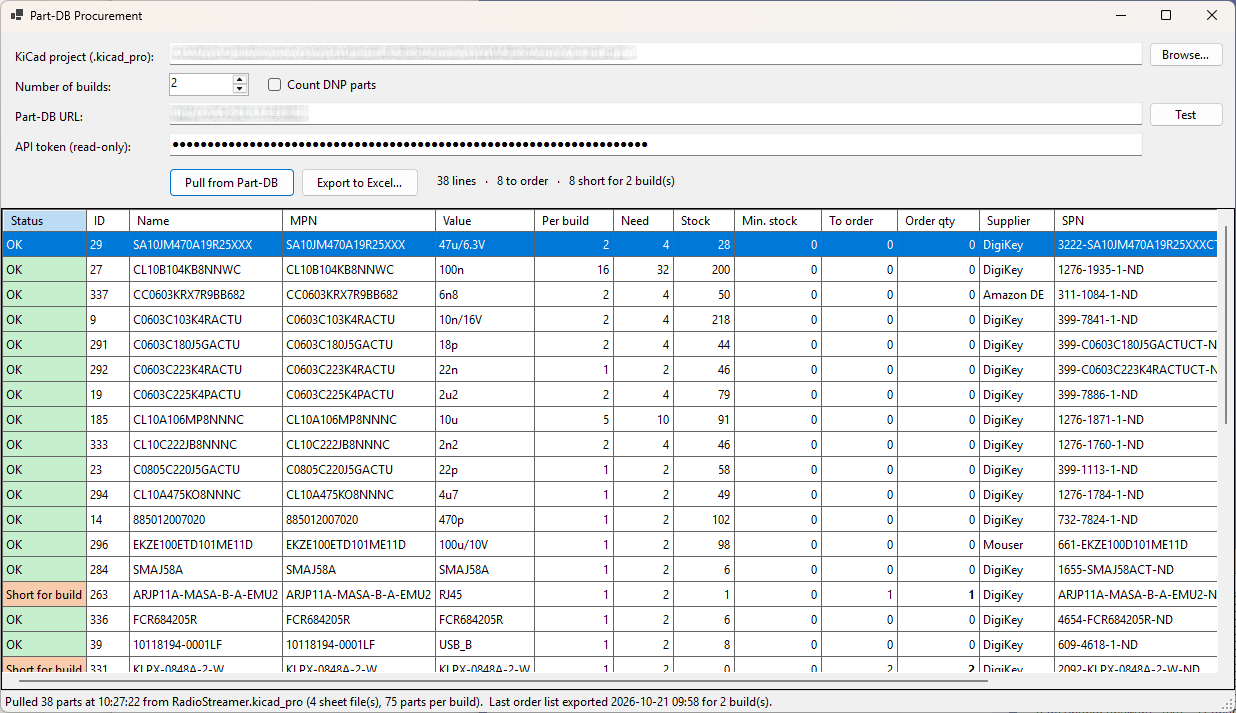
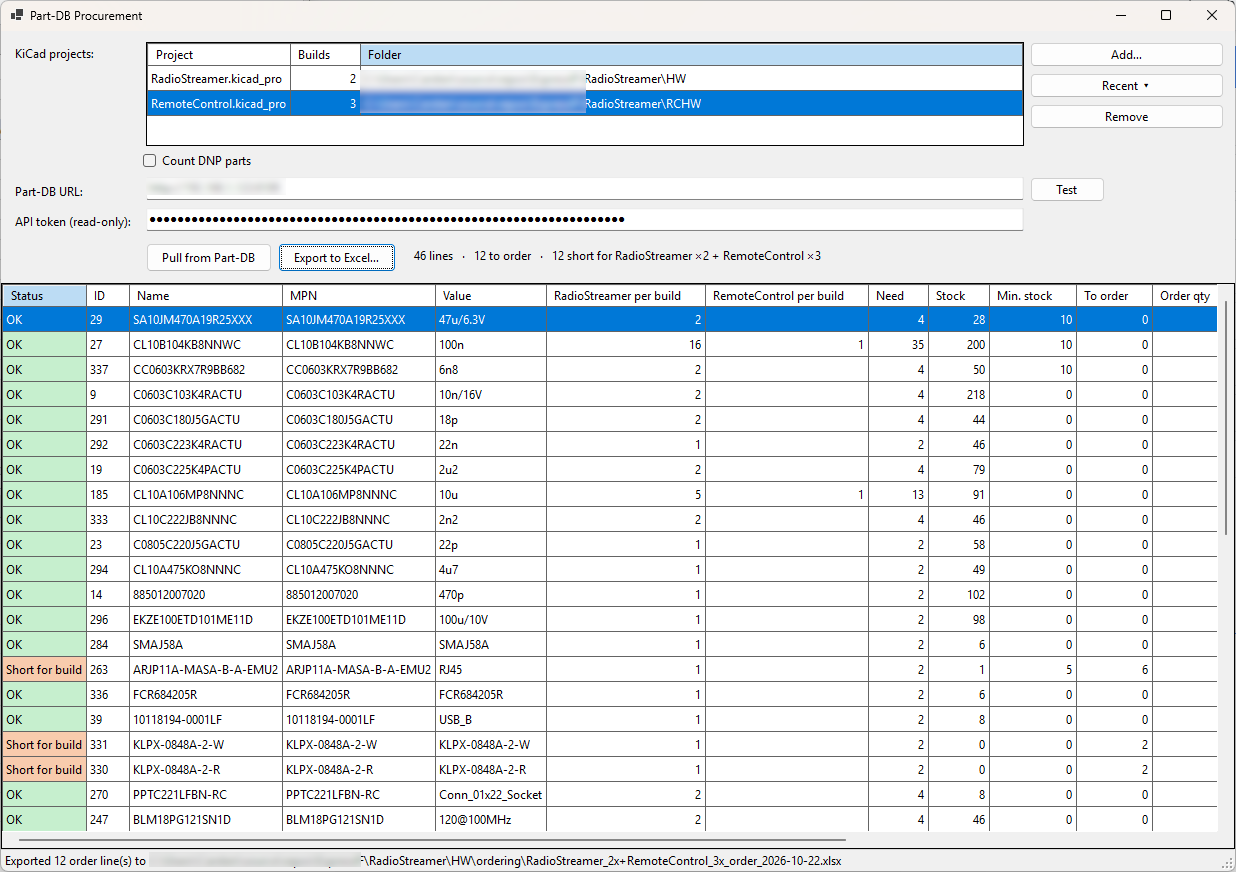
Release 1.1.0: changelog, version, spec and screenshots
Claude-Session: https://claude.ai/code/session_01YYGU95BEiWPeToMNzmMkvU

diff --git a/docs/REQUIREMENTS.md b/docs/REQUIREMENTS.md
@@ -1,0 +1,114 @@
+# Requirements: Part-DB Procurement v1.2 (booking)
+
+Status: **DRAFT, for approval**. Date: 2026-10-21. Section 6 was released in **v1.1.0** (2026-10-22); the booking functions are planned for v1.2.
+
+Origin: **S** = stated by the owner · **A** = proposed by the developer and approved by the owner · **A?** = proposed, not yet approved
+
+Verification (planned): **T** = automated test · **M** = manual test on Windows · **I** = inspection of code or output
+
+---
+
+## 1. Scope
+
+v1.2 adds two booking functions to the existing, read-only order-list tool:
+
+1. **Goods receipt:** book a DigiKey packing list into Part-DB stock.
+2. **Build:** withdraw the parts used by *N* builds of a KiCad project from Part-DB stock.
+
+Both functions change data in Part-DB. Everything else stays read-only.
+
+**Multi-project purchases and a recent-projects list** (section 6, read-only) were released in v1.1.0.
+
+## 2. Common requirements
+
+| ID | Requirement | Origin | Verif. |
+|---|---|---|---|
+| R1 | Whether something has already been booked is decided **only** from the app's own booking log, never from Part-DB data or history. Changes made outside the app are not detected; that is the user's responsibility. | S | I |
+| R2 | The booking log is append-only: entries are never changed or deleted by the app. It is one CSV file (UTF-8, readable in Excel). | A | T |
+| R3 | The location of the booking log can be set in the app. Default: `%AppData%\PartDbProcurement\bookings.csv`. A shared folder may be chosen when several PCs are used. | A | M |
+| R4 | Each line is written to the log **immediately after** it has been booked in Part-DB, so an interrupted run can be resumed without booking a line twice. When a key (R12, R21) has lines that are already booked, the app offers to book **only the remaining lines**. | A | T |
+| R5 | Before any change is made in Part-DB, a preview lists every change (part, lot, quantity before → after, new parts and purchase information to be created). Nothing is changed until the user confirms. | A | M |
+| R6 | Booking requires a Part-DB API token with **write** access. It is stored separately from the read-only token used for pulls, and encrypted in the same way (DPAPI, current Windows user). | A | I |
+| R7 | **Lot rule:** if the part has exactly one lot, that lot is used, whether or not it has a named storage location. If the part has no lot, one is created without a storage location (goods receipt only). If the part has several lots, the line is shown as "choose lot" in the preview and is not booked until the user chooses one. | S | T |
+| R8 | Every booking in Part-DB carries a change comment that identifies it: `Goods receipt DigiKey invoice <no>` or `Build <project> ×<n>`. | A | M |
+| R9 | Log columns: timestamp, type (Receipt/Build), key, reference, line no., Part-DB ID, MPN, SPN, quantity, stock before, stock after, lot code, date code, result (Booked / Created / Skipped / Failed), Windows user, PC name. | A | I |
+
+## 3. Goods receipt from a DigiKey packing list
+
+| ID | Requirement | Origin | Verif. |
+|---|---|---|---|
+| R10 | The app reads a DigiKey packing list PDF (as `DK_PACKLIST_<invoice>.pdf`, Danish/English layout). | S | T |
+| R11 | Per shipment the log records the date, invoice number, sales order number and, per line: DigiKey part number (PART), MPN (MFG#), manufacturer, quantity. | S | T |
+| R12 | The key of a shipment is the **invoice number**. If the invoice is already in the log, the app **warns** with the date of the earlier booking. The user may continue; the default answer is **No**. | S | M |
+| R12a | The packing list number (e.g. `1`) is recorded in the log together with the invoice number. | A | T |
+| R13 | The quantity booked is the **Shipped** quantity. A line delivered as several lots is booked as the sum of the lots. | A | T |
+| R14 | A line is matched to a Part-DB part by **MPN** (exact, ignoring case and leading/trailing spaces). | S | T |
+| R14a | If the matched part has no DigiKey purchase information with this DigiKey part number, a new purchase information entry (supplier DigiKey, supplier part number = PART) is **added**. Existing purchase information is not changed. | S | T |
+| R14b | If more than one Part-DB part has the same MPN, the line is shown as "choose part" in the preview and is not booked until the user chooses one. | A | T |
+| R15 | If no part matches, a new part is created: name = MFG#, MPN = MFG#, description = DESC, manufacturer per R15c, purchase information: supplier DigiKey, supplier part number = PART, and one lot without a storage location holding the shipped quantity. | S | T |
+| R15a | New parts are marked **Needs review** in Part-DB. | A | M |
+| R15b | New parts are placed in the category **"New from DigiKey"**, which the app creates if it does not exist. | A | M |
+| R15c | The manufacturer is looked up by name, ignoring a trailing DigiKey suffix in parentheses (`YAGEO (VA)` → `YAGEO`). A manufacturer that does not exist is created. | S | T |
+| R16 | Lot code and date code from the packing list are recorded in the log. | A | T |
+| R17 | Lines that cannot be read with certainty (missing PART, MFG# or Shipped quantity) are shown in the preview as errors and are not booked. | A? | T |
+
+## 4. Build: withdrawing usage from stock
+
+| ID | Requirement | Origin | Verif. |
+|---|---|---|---|
+| R20 | The app withdraws the usage of a build from Part-DB: quantity per build (as counted for the order list) × number of builds, per Part-DB ID. | S | T |
+| R21 | The log records the project, date, number of builds and the quantity withdrawn per part. The key is the project file plus the time of booking. | S | T |
+| R22 | If the project has been booked before, the app **warns** with the date(s) and number of builds, and lets the user continue, because building another batch is legitimate. | A | M |
+| R23 | If the stock of a part is lower than its usage, that part is not withdrawn (stock never goes negative). It is listed, and the user decides whether to continue without it. Skipped parts are logged as Skipped. | A | T |
+| R24 | Symbols without a Part-DB ID cannot be withdrawn; they are listed in the preview and logged as Skipped. | A? | T |
+
+## 5. User interface and documentation
+
+| ID | Requirement | Origin | Verif. |
+|---|---|---|---|
+| R30 | The main dialog gets two buttons: **Book delivery…** (choose PDF) and **Book build…** (uses the current project and number of builds). | A? | M |
+| R31 | The booking log can be opened from the app (it opens in Excel). | A? | M |
+| R32 | The README is updated: the tool is read-only **unless** the booking functions are used, which need a separate write token. | A | I |
+| R33 | PDF text is extracted with the NuGet package **PdfPig** (Apache 2.0). This is the only external dependency. | A | I |
+
+## 6. Multi-project purchase and recent projects (released in v1.1.0)
+
+| ID | Requirement | Origin | Verif. |
+|---|---|---|---|
+| R40 | The dialog holds a **list of projects** (one or more `.kicad_pro`), each with its own number of builds. Projects are added with **Add…** (multi-select), from the recent list, by drag and drop, or on the command line, and removed with **Remove** / Del. A project cannot be in the list twice. | S | M |
+| R41 | One pull reads all projects and fetches each Part-DB ID once. A Part-DB ID used by several projects is **one line**; its need is the sum of per build × builds over the projects. | S | T |
+| R42 | Parts without a Part-DB ID, excluded parts and warnings are listed **per project**, since lines without an ID cannot be matched across projects. | A? | T |
+| R43 | The Excel output and the grid show one *per build* column per project, references prefixed with the project name, and per-project details on the Info sheet. A single project gives the same output as v1.0. | A? | T |
+| R44 | A **recent list** keeps the last **5** projects, newest first, each with its **number of builds**. A project moves to the top when it is added, pulled or exported; changing its builds updates the remembered number. Missing files are shown as *not found* and cannot be added. | S | T |
+| R45 | The project list is restored at start-up. v1.0 settings (one project, one number of builds) are migrated to it. | A? | T |
+| R46 | The "already exported" warning (B11) is checked for **each** project; an export of a combined list is recorded for every project in it, together with the projects it was combined with. | A? | M |
+| R47 | Changing builds recalculates without a new pull. Adding or removing a project disables export until the next pull. | A? | M |
+| R48 | **Book build…** (R30) with several projects in the list withdraws the usage of all of them, as one booking per project (key per R21). | A? | M |
+
+## 7. Out of scope (v1.2)
+
+- Updating prices from the invoice (possible later; the invoice number is already the key, so it cannot double-book a shipment).
+- Suppliers other than DigiKey.
+- Choosing a lot by rule (FIFO etc.) instead of R7.
+- KiCad 10 design variants (known limitation from v1.0).
+
+## 8. Baseline: v1.0 as built
+
+For traceability, the behaviour of v1.0 that was not specified up front:
+
+| ID | Behaviour |
+|---|---|
+| B1 | API token stored DPAPI-encrypted in `%AppData%\PartDbProcurement\settings.json`. |
+| B2 | Read-only access to Part-DB. |
+| B3 | Supplier on the order list = first non-obsolete supplier on the part. |
+| B4 | Order quantity rounded up to the smallest price break. |
+| B5 | DNP excluded by default; *Exclude from BOM* and `#` power symbols always excluded; both also inherited from sheets (G1, fixed). |
+| B6 | Stock = Part-DB *total in stock* (expired lots and lots with unknown amount count as 0). |
+| B7 | A Part-DB ID that is not found → the full need is ordered and marked red. |
+| B8 | Symbols without an ID are grouped by Value + Footprint + MPN and listed separately. |
+| B9 | No currency conversion; totals per currency. |
+| B10 | Old-data warning when the pull is more than 30 minutes old. |
+| B11 | "Already exported" history stored locally per PC. |
+| B12 | Plain HTTP to Part-DB accepted. |
+| B13 | A file open in Excel gives a Retry/Cancel message; unexpected errors give a plain message and are logged to `error.log`. |
+| G2 | KiCad 10 design variants are ignored (known limitation). |

diff --git a/CHANGELOG.md b/CHANGELOG.md
@@ -1,0 +1,19 @@
+# Changelog
+
+## 1.1.0 (2026-10-22)
+
+### Added
+
+- **Combined purchase for several KiCad projects.** The dialog holds a list of projects, each with its own number of builds. One pull covers all of them; a Part-DB ID used by several projects becomes one line with the summed need, so it is ordered once.
+- **Recent projects.** The last 5 `.kicad_pro` files are remembered together with their number of builds (**Recent ▾**).
+- Projects can be added with **Add…** (several at once), by drag and drop, or as several paths on the command line.
+- Excel and grid: one *per build* column per project, references prefixed with the project name, per-project details on the *Info* sheet. Parts without a Part-DB ID and excluded parts are listed per project.
+
+### Changed
+
+- The "already exported" warning is checked for each project in the list. A combined export is recorded for every project in it.
+- Settings from 1.0 (one project, one number of builds) are migrated to the new project list automatically.
+
+## 1.0.0 (2026-10-21)
+
+First release: order list from a KiCad project and live Part-DB stock.
